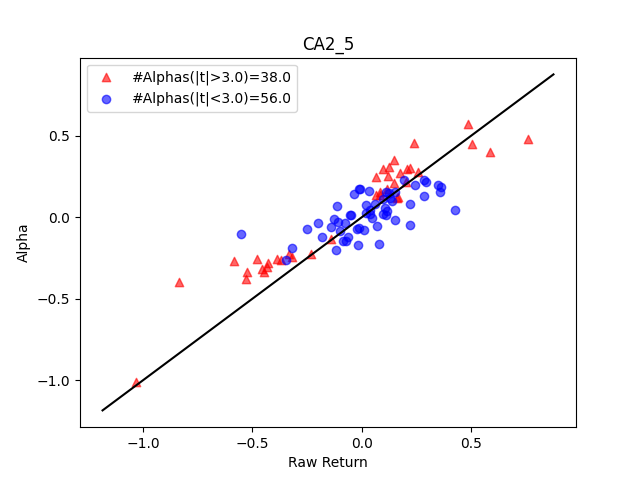
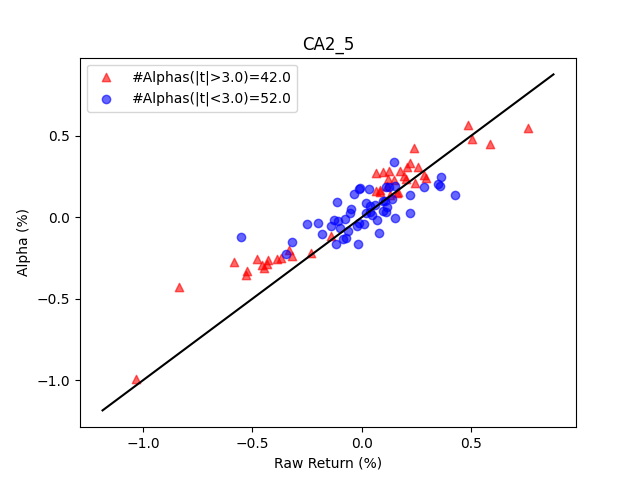
IPCA done, wait for results

diff --git a/models/IPCA.py b/models/IPCA.py
@@ -17,36 +17,91 @@ class IPCA(modelBase):
         super(IPCA, self).__init__(f'IPCA_{K}')
         self.K = K
         self.omit_char = omit_char
+        np.random.seed(10)
+        self.gamma = np.random.random([94, self.K]) # L = 94, we have total 94 characteristics 
+        self.valid_error = []
         self.__prepare_data()
-
+        
 
     def __prepare_data(self):
+        self.portfolio_ret = pd.read_pickle('data/portfolio_ret.pkl')
         self.p_charas = pd.read_pickle('data/p_charas.pkl')
-        portfolio_ret=  pd.read_pickle('data/portfolio_ret.pkl')
-        self.p_charas['p_ret'] = np.zeros(self.p_charas.shape[0])
-        self.train_p_charas = self.p_charas.loc[self.p_charas.DATE <= self.test_period[1]].copy(deep=False).reset_index().set_index(['index', 'DATE']).sort_index()
-        for chr in CHARAS_LIST:
-            self.train_p_charas.loc[f'p_{chr}', 'p_ret'] = portfolio_ret.loc[portfolio_ret.DATE <= self.test_period[1]][chr].values
+        self.mon_list = pd.read_pickle('data/mon_list.pkl')
+    
         
+    def __valid(self):
+        MSE_set = []
+        for mon in self.mon_list[(self.mon_list >= self.valid_period[0]) & (self.mon_list <= self.valid_period[1])]:
+            Z = self.p_charas.loc[self.p_charas.DATE == mon][CHARAS_LIST].values # N * L
+            y = self.portfolio_ret.loc[self.portfolio_ret.DATE == mon][CHARAS_LIST].values.T # N * 1
+            beta = Z @ self.gamma # N * K
+            f_hat = np.array(np.matrix(beta.T @ beta).I @ beta.T @ y) # K * 1
+            residual = y - beta @ f_hat
+            MSE = np.sum(residual**2)
+            MSE_set.append(MSE)
+            
+        valid_error = sum(MSE_set)
+        self.valid_error.append(valid_error)
         
-    def train_model(self):
-        with HiddenPrints():
-            y = self.train_p_charas['p_ret']
-            X = self.train_p_charas.drop('p_ret', axis=1)
+        return valid_error
+    
+        
+    def __gamma_iter(self, gamma_old):
+        numer = np.zeros((94*self.K, 1))
+        denom = np.zeros((94*self.K, 94*self.K))
+        for mon in self.mon_list[(self.mon_list >= self.train_period[0]) & (self.mon_list <= self.train_period[1])]:
+            Z = self.p_charas.loc[self.p_charas.DATE == mon][CHARAS_LIST].values # N * L
+            y = self.portfolio_ret.loc[self.portfolio_ret.DATE == mon][CHARAS_LIST].values.T # N * 1
+            beta = Z @ gamma_old # N * K
+            f_hat = np.array(np.matrix(beta.T @ beta).I @ beta.T @ y) # K * 1
+            numer += (np.kron(f_hat, Z.T) @ y)
+            denom += (np.kron(f_hat, Z.T) @ np.kron(f_hat.T, Z))
+            
+        gamma_new = (np.linalg.pinv(denom) @ numer).reshape(self.K, 94)
+        gamma_new = gamma_new.T    
 
-            self.regr = InstrumentedPCA(n_factors=self.K, intercept=False)
-            self.regr = self.regr.fit(X=X, y=y)
-            self.Gamma, self.Factors = self.regr.get_factors(label_ind=False)
+        return gamma_new
+    
+
+    def train_model(self):
+        update_cnt = 0
+        min_valid_err = np.Inf
+        best_gamma = np.zeros((94, self.K)) 
+        while update_cnt < 5:
+            self.gamma = self.__gamma_iter(self.gamma)
+            valid_error = self.__valid()
+            if valid_error < min_valid_err:
+                min_valid_err = valid_error
+                best_gamma = self.gamma
+                update_cnt = 0
+            else:
+                update_cnt += 1
+        
+        self.gamma = best_gamma
         
     
     def inference(self, month):
-        X_pred = self.p_charas.drop('p_ret', axis=1).loc[self.p_charas.DATE == month].copy(deep=False).reset_index().set_index(['index', 'DATE']).sort_index()
-        return self.regr.predict(X_pred, mean_factor=True) # (N, 1)
+        Z = self.p_charas.loc[self.p_charas.DATE == month][CHARAS_LIST].values # N * L
+        y = self.portfolio_ret.loc[self.portfolio_ret.DATE == month][CHARAS_LIST].values.T # N * 1
+        beta = Z @ self.gamma # N * K
+        f_hat = np.array(np.matrix(beta.T @ beta).I @ beta.T @ y) # K * 1
+        return beta @ f_hat
     
     
     def predict(self, month):
-        lag_X = self.p_charas.drop('p_ret', axis=1).loc[self.p_charas.DATE < month].copy(deep=False).reset_index().groupby('index').mean()
-        lag_X.DATE = self.p_charas.loc[self.p_charas.DATE < month].DATE.drop_duplicates()[-1]
-        lag_X = lag_X.reset_index().set_index(['index', 'DATE']).sort_index()
-        return self.regr.predict(lag_X, mean_factor=True) # (N, 1)
+        lag_f_hat = []
+        for mon in self.mon_list[(self.mon_list >= 19870101) & (self.mon_list < month)]:
+            Z = self.p_charas.loc[self.p_charas.DATE == mon][CHARAS_LIST].values # N * L
+            y = self.portfolio_ret.loc[self.portfolio_ret.DATE == mon][CHARAS_LIST].values.T # N * 1
+            beta = Z @ self.gamma # N * K
+            f_hat = np.array(np.matrix(beta.T @ beta).I @ beta.T @ y) # K * 1
+            lag_f_hat.append(f_hat)
+            
+        Z = self.p_charas.loc[self.p_charas.DATE == month][CHARAS_LIST].values # N * L
+        y = self.portfolio_ret.loc[self.portfolio_ret.DATE == month][CHARAS_LIST].values.T # N * 1
+        beta = Z @ self.gamma # N * K
+        
+        # return average of prevailing sample hat{f} (from 198701) up to t-1
+        avg_lag_f = np.mean(lag_f_hat, axis=0)
+        return beta @ avg_lag_f
     

diff --git a/main.py b/main.py
@@ -39,7 +39,8 @@ def model_inference_and_predict(model):
         
         for m in g[1].to_list():
             inference_result.append(model.inference(m))
-            predict_result.append(model.predict(m))
+            if not len(model.omit_char):
+                predict_result.append(model.predict(m))
         # model refit (change train period and valid period)
         model.refit()
 
@@ -47,8 +48,9 @@ def model_inference_and_predict(model):
     inference_result = pd.DataFrame(inference_result, index=test_mons, columns=CHARAS_LIST)
     inference_result.to_csv(f'results/inference/{model.name}_inference.csv')
     
-    predict_result = pd.DataFrame(predict_result, index=test_mons, columns=CHARAS_LIST)
-    predict_result.to_csv(f'results/predict/{model.name}_predict.csv')
+    if not len(model.omit_char):
+        predict_result = pd.DataFrame(predict_result, index=test_mons, columns=CHARAS_LIST)
+        predict_result.to_csv(f'results/predict/{model.name}_predict.csv')
     
     
     
@@ -85,18 +87,17 @@ def model_inference_and_predict_CA(model):
         for m in g[1].to_list():
             m_stock_index, _, _, _ = model._get_item(m)
             stock_index = pd.concat([stock_index, pd.Series(m_stock_index)]).drop_duplicates().astype(int)
-            inference_R = model.inference(m) # return (N, 1)
-            predict_R = model.predict(m) # reutrn (N, 1)
-
             # move inference_R and predict_R to cpu
+            inference_R = model.inference(m) # return (N, 1)
             inference_R = inference_R.cpu().detach().numpy()
-            predict_R = predict_R.cpu().detach().numpy()
-
             inference_R = pd.DataFrame(inference_R, index=m_stock_index, columns=[m])
-            predict_R = pd.DataFrame(predict_R, index=m_stock_index, columns=[m])
-
             inference_result = pd.concat([inference_result.reset_index(drop=True), inference_R.reset_index(drop=True)], axis=1) # (N, T)
-            predict_result = pd.concat([predict_result.reset_index(drop=True), predict_R.reset_index(drop=True)], axis=1) # (N, T)
+            
+            if not len(model.omit_char):
+                predict_R = model.predict(m) # reutrn (N, 1)
+                predict_R = predict_R.cpu().detach().numpy()
+                predict_R = pd.DataFrame(predict_R, index=m_stock_index, columns=[m])
+                predict_result = pd.concat([predict_result.reset_index(drop=True), predict_R.reset_index(drop=True)], axis=1) # (N, T)
 
             # DEBUG:
             # save inference_R and predict_R to csv
@@ -109,18 +110,23 @@ def model_inference_and_predict_CA(model):
     inference_result = pd.DataFrame(inference_result.values.T, index=test_mons, columns=CHARAS_LIST)
     inference_result.to_csv(f'results/inference/{model.name}_inference.csv')
     
-    predict_result = pd.DataFrame(predict_result.values.T, index=test_mons, columns=CHARAS_LIST)
-    predict_result.to_csv(f'results/predict/{model.name}_predict.csv')
+    if not len(model.omit_char):
+        predict_result = pd.DataFrame(predict_result.values.T, index=test_mons, columns=CHARAS_LIST)
+        predict_result.to_csv(f'results/predict/{model.name}_predict.csv')
 
     # GC: release RAM memory(model)
     del model
     gc.collect()
     return inference_result, predict_result
 
+
+
 def git_push(msg):
     os.system('git add R_squares')
     os.system(f'git commit -m "{msg}"')
     os.system('git push')
+
+
 
 def model_selection(model_type, model_K, omit_char=[]):
     assert model_type in ['FF', 'PCA', 'IPCA', 'CA0', 'CA1', 'CA2', 'CA3'], f'No Such Model: {model_type}'
